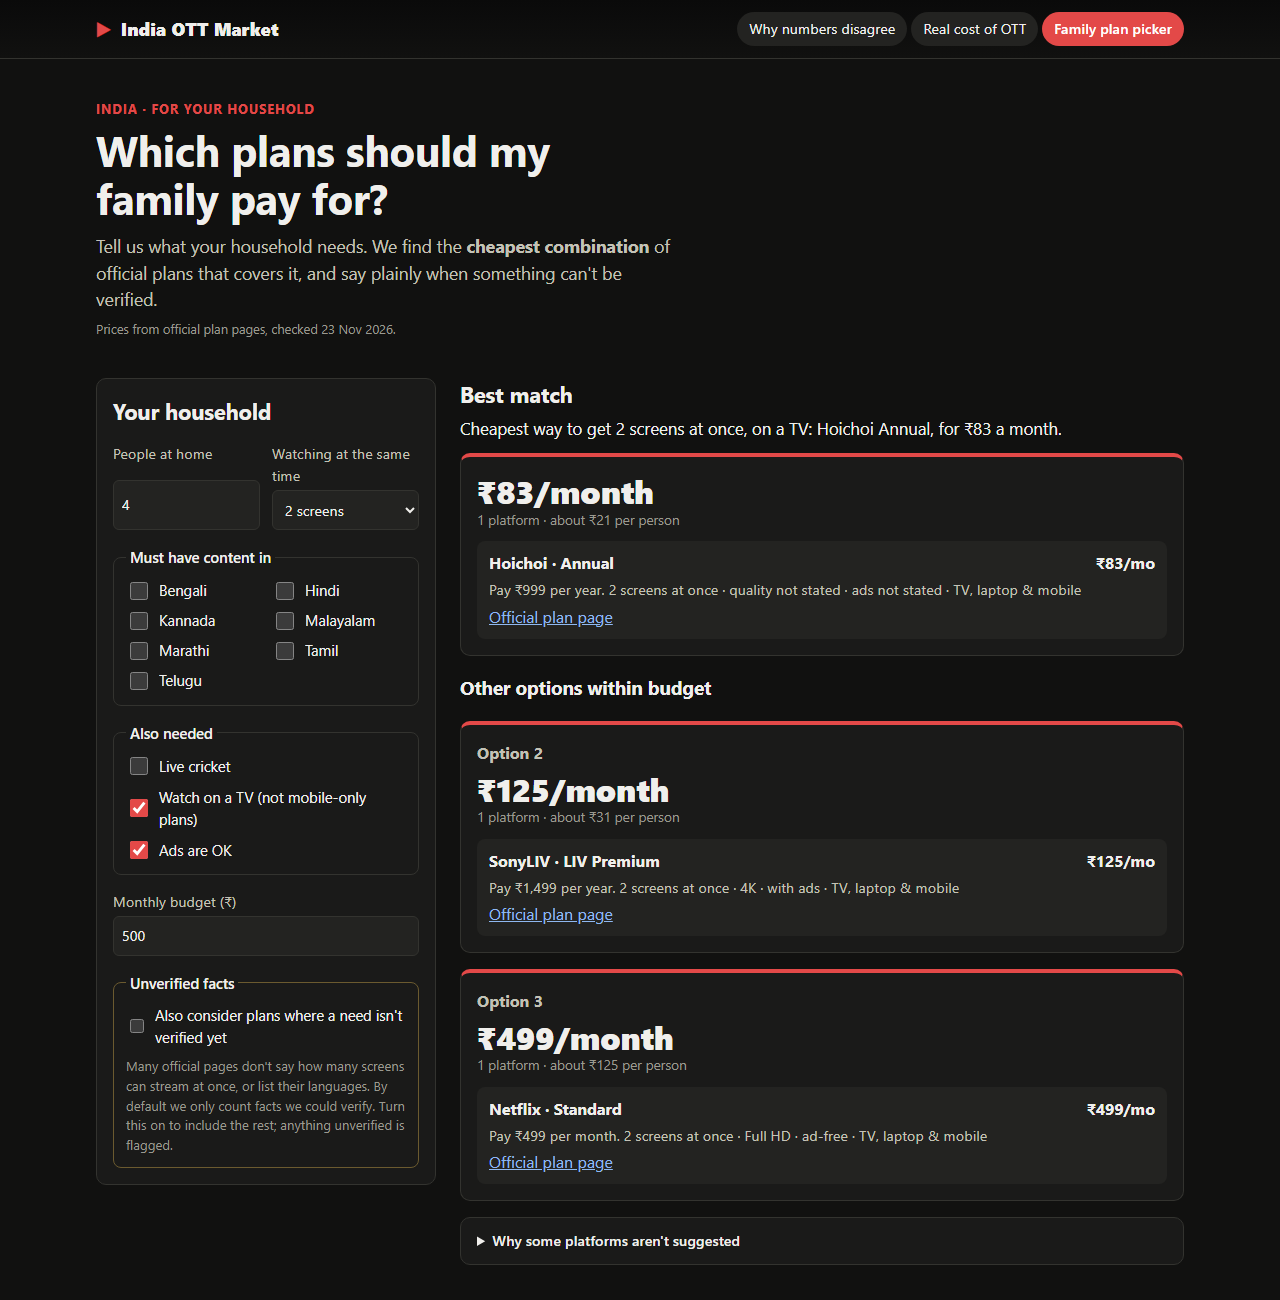
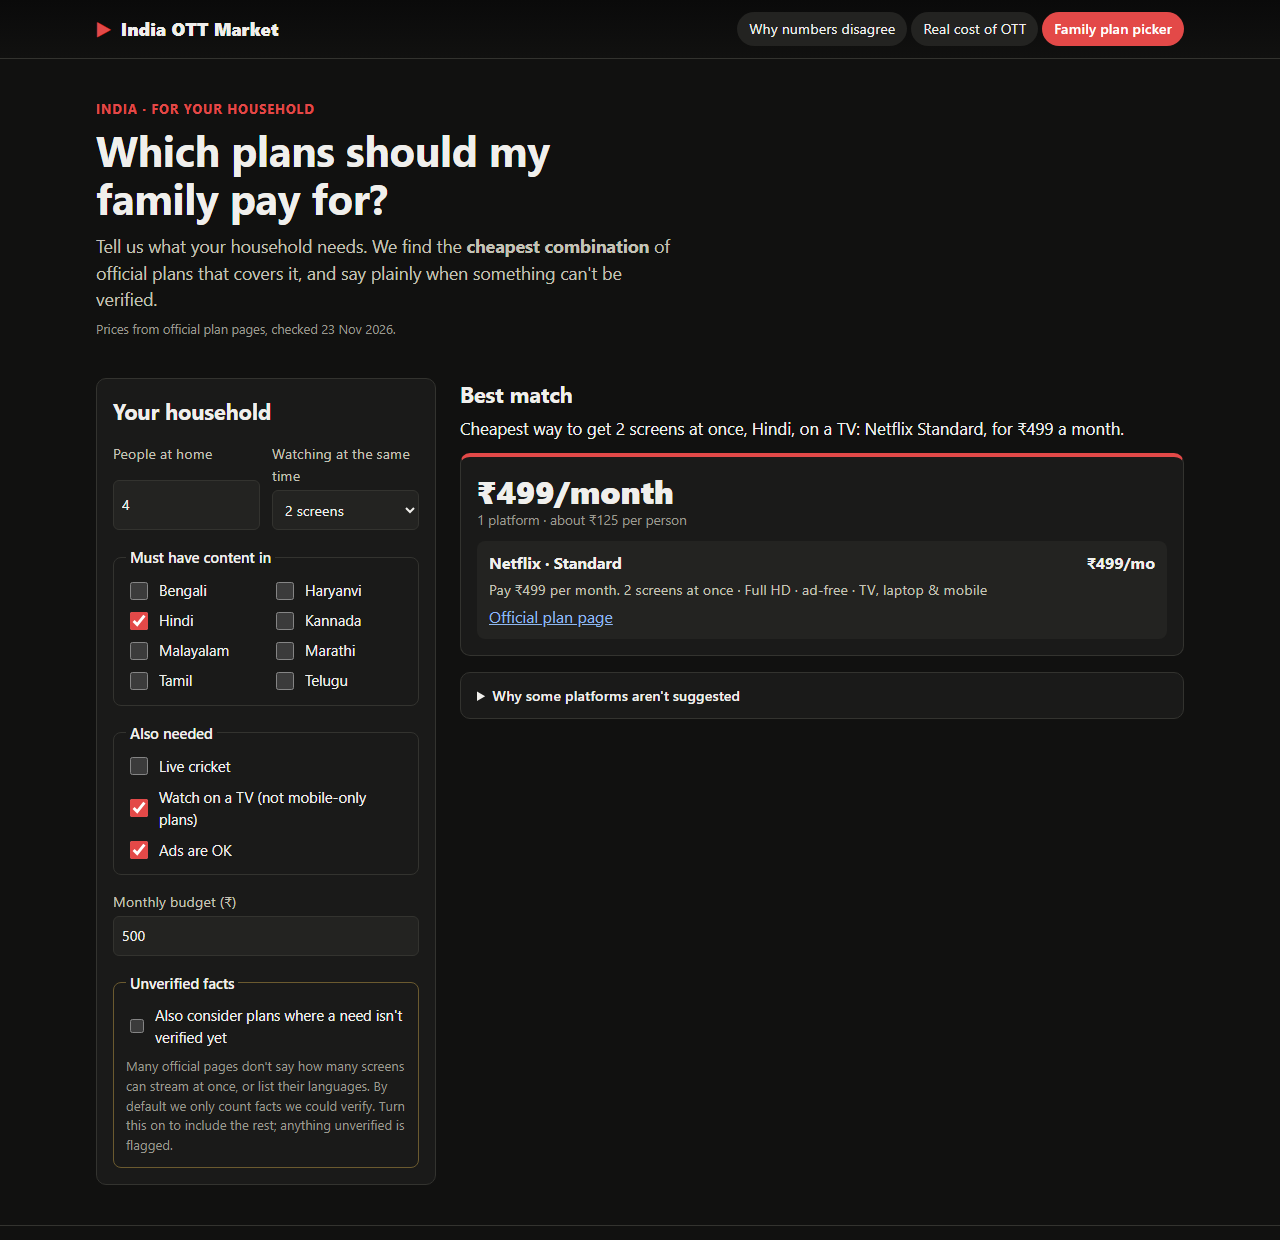
fix: pre-tick Hindi in the family picker (#18)
* fix: pre-tick Hindi in the family picker on first load

* test: cover the picker's default language and ?lang= overrides

* docs: update picker screenshot for the Hindi default

---------

diff --git a/tests/js/picker.test.js b/tests/js/picker.test.js
@@ -5,7 +5,7 @@
 
 const test = require("node:test");
 const assert = require("node:assert/strict");
-const { pickPlans, checkPlan, platformOffers } = require("../../dashboard/js/picker.js");
+const { pickPlans, checkPlan, platformOffers, initialLanguages } = require("../../dashboard/js/picker.js");
 
 const PLATFORMS = [
   { platform_id: "cric", name: "CricTV", languages: "Hindi;English", has_live_cricket: true },
@@ -177,4 +177,28 @@ test("totals are rounded to paise", () => {
   const odd = [plan("cric", "Yearly", 1499 / 12)];
   const r = pickPlans(odd, PLATFORMS, prefs());
   assert.equal(r.best.total, 124.92);
+});
+
+// --- Default language on first load ----------------------------------------------------------
+
+const AVAILABLE = ["Bengali", "Hindi", "Tamil", "Telugu"];
+
+test("Hindi is pre-ticked on first load", () => {
+  assert.deepEqual(initialLanguages(AVAILABLE, null), ["Hindi"]);
+});
+
+test("no default when the data has no Hindi", () => {
+  assert.deepEqual(initialLanguages(["Tamil", "Telugu"], null), []);
+});
+
+test("a ?lang= in the address replaces the default", () => {
+  assert.deepEqual(initialLanguages(AVAILABLE, "Tamil,Telugu"), ["Tamil", "Telugu"]);
+});
+
+test("an empty ?lang= means no language, so the user can turn Hindi off in a shared link", () => {
+  assert.deepEqual(initialLanguages(AVAILABLE, ""), []);
+});
+
+test("unknown languages in the address are ignored", () => {
+  assert.deepEqual(initialLanguages(AVAILABLE, "Klingon,Hindi"), ["Hindi"]);
 });

diff --git a/dashboard/js/picker-page.js b/dashboard/js/picker-page.js
@@ -150,8 +150,10 @@
     if (params.has("budget")) $("budget").value = params.get("budget");
     const flags = { cricket: "cricket", tv: "needs-tv", ads: "ads-ok", unverified: "allow-unverified" };
     for (const [key, id] of Object.entries(flags)) if (params.has(key)) $(id).checked = params.get(key) === "1";
-    const wanted = new Set((params.get("lang") || "").split(",").filter(Boolean));
-    for (const box of document.querySelectorAll("#languages input")) box.checked = wanted.has(box.value);
+    const boxes = [...document.querySelectorAll("#languages input")];
+    // Hindi is pre-ticked by default; a ?lang= in the address overrides it (see Picker.initialLanguages).
+    const wanted = new Set(Picker.initialLanguages(boxes.map((b) => b.value), params.get("lang")));
+    for (const box of boxes) box.checked = wanted.has(box.value);
   }
 
   async function start() {

diff --git a/dashboard/js/picker.js b/dashboard/js/picker.js
@@ -145,5 +145,17 @@
     return { status: "ok", best: affordable[0], alternatives: affordable.slice(1, 3), cheapestValid, excluded };
   }
 
-  return { pickPlans, checkPlan, platformOffers, YES, NO, UNKNOWN };
+  /** Most visitors want Hindi, so it is ticked on first load when the data offers it.
+   *  A ?lang= value in the address always wins - even an empty one (meaning "no language"). */
+  const DEFAULT_LANGUAGE = "Hindi";
+
+  function initialLanguages(available, langParam) {
+    if (langParam != null) {
+      const wanted = langParam.split(",").map((s) => s.trim()).filter(Boolean);
+      return available.filter((lang) => wanted.includes(lang));
+    }
+    return available.includes(DEFAULT_LANGUAGE) ? [DEFAULT_LANGUAGE] : [];
+  }
+
+  return { pickPlans, checkPlan, platformOffers, initialLanguages, YES, NO, UNKNOWN };
 });
